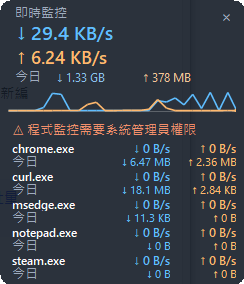
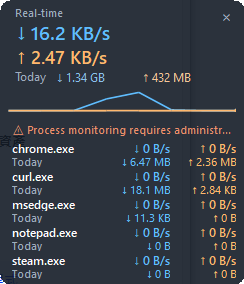
docs: use English-interface screenshots everywhere; refresh statistics screenshot (traffic measurements)

diff --git a/README.zh-TW.md b/README.zh-TW.md
@@ -35,13 +35,15 @@ IPv4 + IPv6，含 QUIC/HTTP3），需以**系統管理員**執行。
 
 ## 畫面截圖
 
-| 統計圖表（英文） | 浮動面板 |
-|---|---|
-| ![統計圖表](screenshots/stats-en.png) | ![浮動面板](screenshots/panel.png) |
+所有截圖皆使用英文介面（介面語言可即時切換）。
 
-| 統計圖表（繁體中文） | |
+| 主視窗 | 浮動面板 |
 |---|---|
-| ![統計圖表中文](screenshots/stats-zh.png) | |
+| ![主視窗](screenshots/main.png) | ![浮動面板](screenshots/panel.png) |
+
+| 統計圖表與碼表紀錄 |
+|---|
+| ![統計圖表](screenshots/stats-en.png) |
 
 ## 系統需求
 

diff --git a/README.md b/README.md
@@ -37,13 +37,15 @@ provider (TCP + UDP, IPv4 + IPv6, including QUIC/HTTP3) and require administrato
 
 ## Screenshots
 
+All screenshots use the English interface (the UI language is switchable).
+
 | Main window | Floating panel |
 |---|---|
 | ![Main window](screenshots/main.png) | ![Floating panel](screenshots/panel.png) |
 
-| Statistics (English) | Statistics (繁體中文) |
-|---|---|
-| ![Statistics](screenshots/stats-en.png) | ![Statistics ZH](screenshots/stats-zh.png) |
+| Statistics & traffic measurements |
+|---|
+| ![Statistics](screenshots/stats-en.png) |
 
 ## Requirements
 
